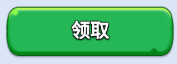
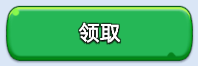
1.修复主页检查bug（使用的中文名图片）

Changed region(s): [[0.0282, 0.0625, 0.9887, 0.9688], [0.3672, 0.3125, 0.6215, 0.6875]]

diff --git a/wjdr_release.py b/wjdr_release.py
@@ -93,9 +93,9 @@ def Homepage():
                 if exists(Template(r"icon\tpl1719198082012.png", threshold=0.8, record_pos=(-0.44, -0.783), resolution=(414, 780))):
                     print_space('点击返回按钮')
                     touch(Template(r"icon\tpl1719198082012.png", threshold=0.8, record_pos=(-0.44, -0.783), resolution=(414, 780)))
-                elif exists(Template(r'icon\英雄招募返回.png',threshold=0.8, record_pos=(-0.44, -0.783), resolution=(414, 780))):
+                elif exists(Template(r'icon\return.png',threshold=0.8, record_pos=(-0.44, -0.783), resolution=(414, 780))):
                     print_space('点击返回按钮')
-                    touch(Template(r"icon\英雄招募返回.png", threshold=0.8, record_pos=(-0.44, -0.783), resolution=(414, 780)))
+                    touch(Template(r"icon\return.png", threshold=0.8, record_pos=(-0.44, -0.783), resolution=(414, 780)))
                 elif exists(Template(r"icon\tpl1719198103804.png", record_pos=(0.442, -0.35), resolution=(414, 780))):
                     print_space('点击关闭按钮')
                     touch(Template(r"icon\tpl1719198103804.png", record_pos=(0.442, -0.35), resolution=(414, 780)))
@@ -938,7 +938,7 @@ def hide_widget():
     global label_2,version_label
     label_2.place_forget()
     ttk.Button(window, text="隐藏UI",command=hide_widgets,width=6).place(x=0, y=513)
-    ttk.Label(window, text='版本:0.4.2').place(x=901, y=518)
+    ttk.Label(window, text='版本:%s'%set_version.get()).place(x=901, y=518)
 
 '''------------------------------------创建主窗口------------------------------------'''
 window = tk.Tk()
